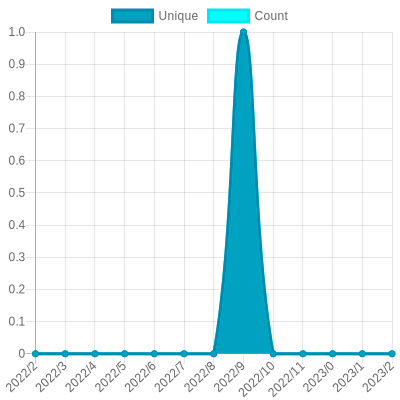
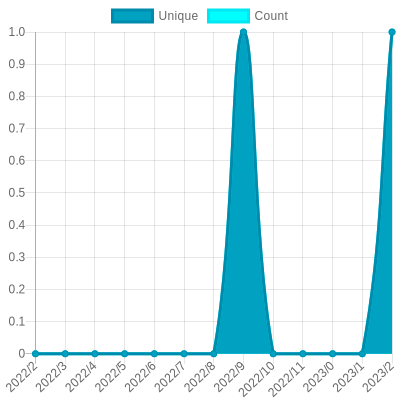
Update views

Changed region(s): [[0.9, 0.06, 0.99, 0.9]]

diff --git a/readme/300973530/year.md b/readme/300973530/year.md
@@ -23,10 +23,10 @@
 			<code>2022/3/1</code>
 		</td>
 		<td>
-			<code>0</code>
+			<code>1</code>
 		</td>
 		<td>
-			<code>0</code>
+			<code>1</code>
 		</td>
 	</tr>
 	<tr>
@@ -164,7 +164,7 @@
 </table>
 
 </details>
-<small><i>Last updated on 2022/3/4 12:27 PM UTC</i></small>
+<small><i>Last updated on 2022/3/4 6:19 PM UTC</i></small>
 
 ## ✂Copy and 📋 Paste
 ### SVG Badge

diff --git a/README.md b/README.md
@@ -53,7 +53,7 @@ The project created and maintained by [gayanvoice](https://github.com/gayanvoice
 	</tr>
 </table>
 
-<small><i>Last updated on 2022/3/4 12:27 PM UTC</i></small>
+<small><i>Last updated on 2022/3/4 6:19 PM UTC</i></small>
 
 ## ✂Copy and 📋 Paste
 ### Total Views Badge

diff --git a/readme/384794626/year.md b/readme/384794626/year.md
@@ -164,7 +164,7 @@
 </table>
 
 </details>
-<small><i>Last updated on 2022/3/4 12:26 PM UTC</i></small>
+<small><i>Last updated on 2022/3/4 6:19 PM UTC</i></small>
 
 ## ✂Copy and 📋 Paste
 ### SVG Badge
